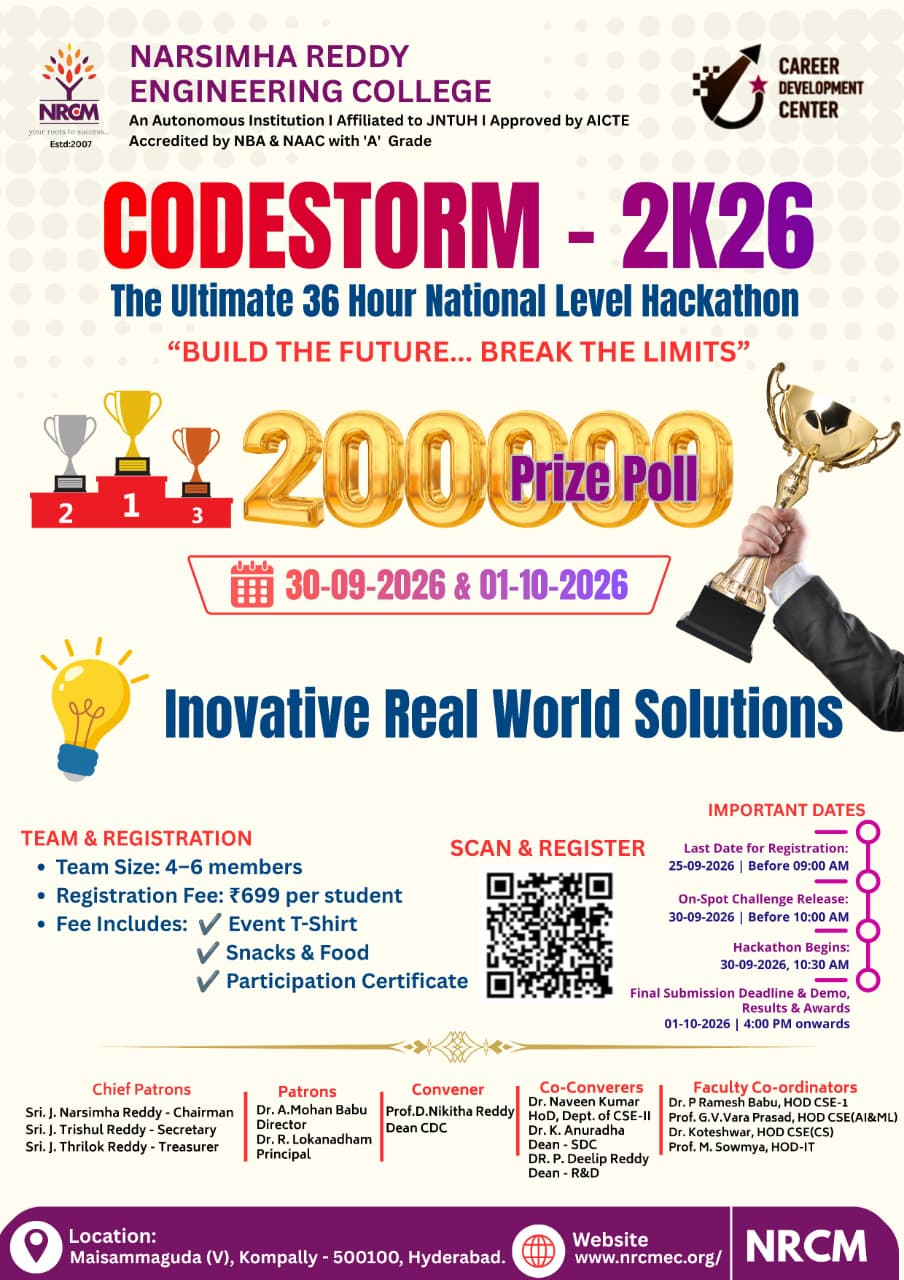
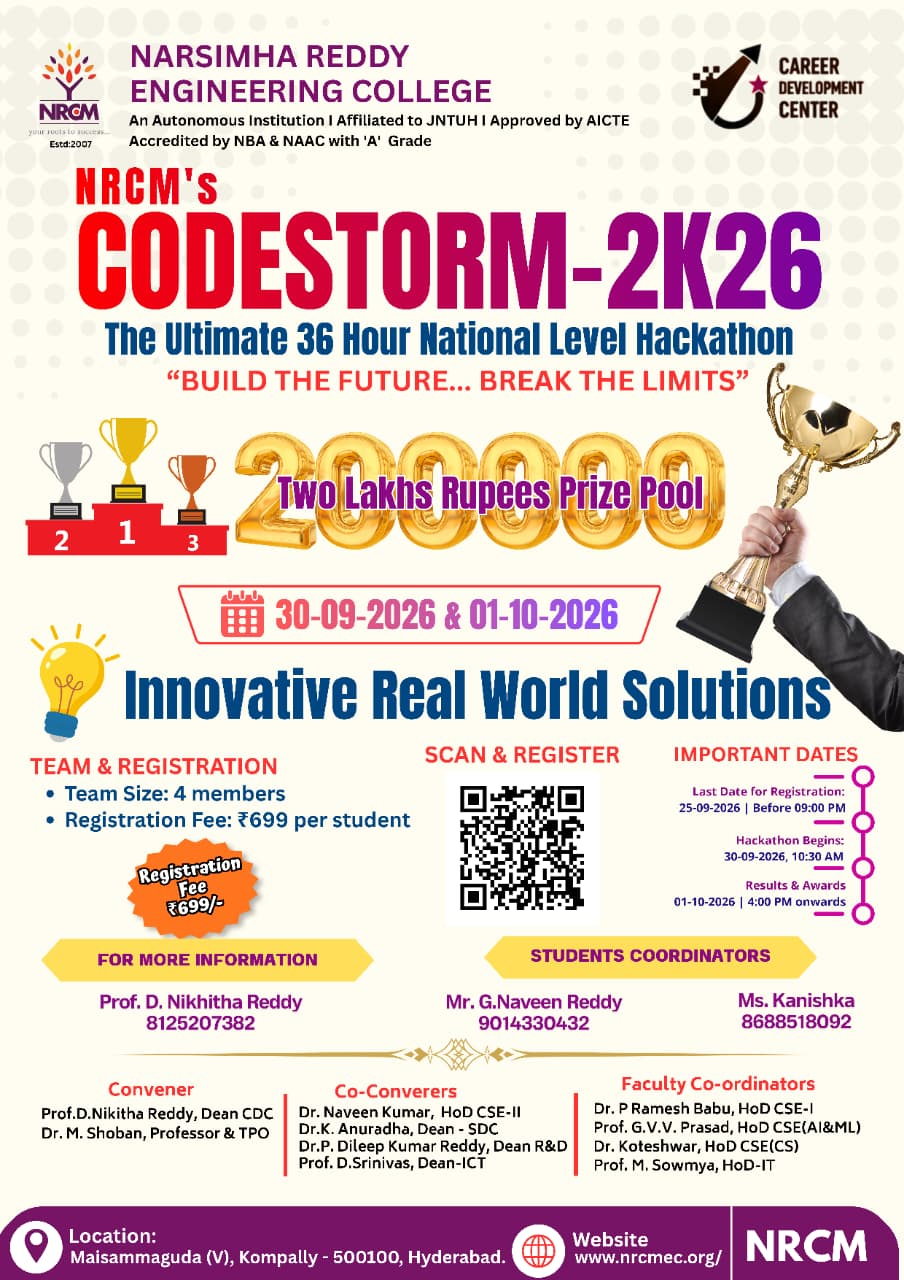
Update organizers, poster, team size, and internship highlights

diff --git a/website/templates/website/home.html b/website/templates/website/home.html
@@ -311,6 +311,7 @@
                 <img src="{% static 'website/images/logo.jpg' %}" alt="CodeStorm Logo"
                     class="w-10 h-10 rounded-lg object-cover transform group-hover:scale-110 transition duration-300">
                 <div class="flex flex-col py-0">
+                    <span class="text-xs text-indigo-500 font-rajdhani tracking-[0.2em]">NRCM'S</span>
                     <span
                         class="text-xl font-bold font-orbitron text-slate-900 tracking-wider group-hover:text-indigo-600 transition whitespace-nowrap">CODESTORM</span>
                     <span class="text-xs text-indigo-500 font-rajdhani tracking-[0.2em]">2K26</span>
@@ -405,6 +406,10 @@
                     </div>
                     <div class="flex flex-col items-center lg:items-end mb-6" data-aos="zoom-in"
                         data-aos-duration="1000">
+                        <div class="text-3xl sm:text-4xl md:text-5xl lg:text-[3.5rem] font-bold font-orbitron text-indigo-500 mb-2 tracking-widest uppercase"
+                            data-aos="fade-up">
+                            NRCM'S
+                        </div>
                         <h1
                             class="text-4xl sm:text-5xl md:text-7xl lg:text-[5rem] xl:text-[5.5rem] font-black font-orbitron leading-none tracking-tighter w-full text-center lg:text-right">
                             <span class="text-[#0a1128]">CODE</span><span
@@ -428,15 +433,16 @@
                     <div class="flex flex-wrap justify-center lg:justify-end gap-6 mb-10" data-aos="fade-up"
                         data-aos-delay="400">
                         <div
-                            class="w-48 p-5 rounded-2xl border-2 border-indigo-500 flex flex-col items-center justify-center bg-transparent">
-                            <p class="text-slate-500 text-[10px] sm:text-xs uppercase tracking-widest mb-2">Prize Pool
+                            class="w-auto px-8 sm:px-12 py-6 rounded-2xl border border-blue-400 flex flex-col items-center justify-center bg-gradient-to-br from-blue-500 to-indigo-600 shadow-[0_0_30px_rgba(59,130,246,0.6)] transform hover:scale-105 transition-all duration-300 inline-flex">
+                            <p class="text-white text-xs sm:text-sm uppercase tracking-widest mb-2 font-bold drop-shadow-md whitespace-nowrap">Prize Pool
                             </p>
-                            <p class="text-2xl sm:text-3xl font-bold font-orbitron text-indigo-600">₹2,00,000</p>
+                            <p class="text-4xl sm:text-5xl font-black font-orbitron text-white drop-shadow-lg whitespace-nowrap">₹2,00,000</p>
                         </div>
                         <div
-                            class="w-48 p-5 rounded-2xl border-2 border-rose-500 flex flex-col items-center justify-center bg-transparent">
-                            <p class="text-slate-500 text-[10px] sm:text-xs uppercase tracking-widest mb-2">Duration</p>
-                            <p class="text-2xl sm:text-3xl font-bold font-orbitron text-rose-500">36 HOURS</p>
+                            class="w-auto px-8 sm:px-12 py-6 rounded-2xl border border-emerald-400 flex flex-col items-center justify-center bg-gradient-to-br from-emerald-500 to-teal-600 shadow-[0_0_30px_rgba(16,185,129,0.6)] transform hover:scale-105 transition-all duration-300 inline-flex">
+                            <p class="text-white text-xs sm:text-sm uppercase tracking-widest mb-2 font-bold drop-shadow-md whitespace-nowrap">Exclusive
+                            </p>
+                            <p class="text-3xl sm:text-4xl font-black font-orbitron text-white drop-shadow-lg whitespace-nowrap mt-1">Internships</p>
                         </div>
                     </div>
 
@@ -980,10 +986,6 @@
                                 </div>
                                 <img src="{% static 'website/images/poster.jpeg' %}" alt="CodeStorm 2026"
                                     class="relative rounded-2xl shadow-2xl border border-slate-100 w-full object-cover max-w-full h-auto">
-                                <div
-                                    class="absolute -top-2 -right-2 md:-top-4 md:-right-4 bg-indigo-600 text-white font-bold px-3 py-1 md:px-4 md:py-2 rounded-full text-xs md:text-sm font-orbitron">
-                                    36 HOURS
-                                </div>
                             </div>
                         </div>
 
@@ -1001,8 +1003,8 @@
                                         <h4 class="text-base md:text-lg font-bold text-slate-900 mb-1">Important Dates
                                         </h4>
                                         <p class="text-sm md:text-base text-slate-600 leading-relaxed"><span
-                                                class="text-rose-500 font-bold">Reg Close: Sep 25, 2026</span> | Event:
-                                            Sep 30 - Oct 1</p>
+                                                class="text-rose-500 font-bold">Reg Close: Sep 25, 2026 (9:00 PM)</span><br/>Event:
+                                            Sep 30 (10:30 AM) - Oct 1</p>
                                     </div>
                                 </div>
 
@@ -1015,7 +1017,7 @@
                                         <h4 class="text-base font-bold text-slate-900 mb-1 font-orbitron">Registration
                                             Detail</h4>
                                         <p class="text-sm md:text-base text-slate-600 leading-relaxed">Fee:
-                                            ₹699/student. Team: 4-6 members.</p>
+                                            ₹699/student. Team: 4 members.</p>
                                     </div>
                                 </div>
 
@@ -1037,10 +1039,20 @@
                                         <i class="fas fa-lightbulb text-emerald-600 text-base md:text-xl"></i>
                                     </div>
                                     <div>
-                                        <h4 class="text-base md:text-lg font-bold text-slate-900 mb-1">Format</h4>
+                                        <h4 class="text-base md:text-lg font-bold text-slate-900 mb-1">Theme</h4>
                                         <p class="text-sm md:text-base text-slate-600 leading-relaxed"><strong
-                                                class="text-slate-900">No Idea Submission.</strong> On-Spot Open
-                                            Challenges.</p>
+                                                class="text-slate-900">Innovative Real World Solutions.</strong></p>
+                                    </div>
+                                </div>
+
+                                <div class="flex items-start gap-3 md:gap-4">
+                                    <div
+                                        class="w-10 h-10 md:w-12 md:h-12 bg-teal-100 rounded-xl flex items-center justify-center flex-shrink-0 border border-teal-200">
+                                        <i class="fas fa-briefcase text-teal-600 text-base md:text-xl"></i>
+                                    </div>
+                                    <div>
+                                        <h4 class="text-base md:text-lg font-bold text-slate-900 mb-1">Internships</h4>
+                                        <p class="text-sm md:text-base text-slate-600 leading-relaxed">Top performers get <strong class="text-slate-900">Paid & PPO</strong> internship offers.</p>
                                     </div>
                                 </div>
                             </div>
@@ -1067,71 +1079,107 @@
         <div class="container mx-auto px-6">
             <h2 class="text-4xl font-bold text-center font-orbitron text-slate-900 mb-16">The <span
                     class="text-indigo-600">Organizers</span></h2>
-            <div class="grid grid-cols-1 md:grid-cols-2 gap-12 max-w-6xl mx-auto">
-                <div data-aos="fade-right">
-                    <h3 class="text-2xl font-orbitron text-slate-900 mb-8 border-l-4 border-indigo-600 pl-4">Conveners
+            <div class="grid grid-cols-1 md:grid-cols-3 gap-8 max-w-7xl mx-auto">
+                
+                <!-- Conveners Column -->
+                <div data-aos="fade-up" data-aos-delay="100">
+                    <h3 class="text-2xl font-orbitron text-slate-900 mb-8 border-l-4 border-indigo-600 pl-4">Convener
                     </h3>
                     <div class="grid gap-4">
                         <div class="glass-card p-4 rounded-lg flex items-center gap-4">
-                            <div class="w-12 h-12 bg-slate-100 rounded-full flex items-center justify-center"><i
+                            <div class="w-12 h-12 bg-slate-100 rounded-full flex items-center justify-center flex-shrink-0"><i
                                     class="fas fa-user-tie text-indigo-600"></i></div>
                             <div>
-                                <h4 class="font-bold text-slate-900">D. NIKHITHA</h4>
-                                <p class="text-sm text-slate-600">Convener (Dean - CDC)</p>
+                                <h4 class="font-bold text-slate-900">Prof. D. Nikitha Reddy</h4>
+                                <p class="text-sm text-slate-600">Dean CDC</p>
                             </div>
                         </div>
                         <div class="glass-card p-4 rounded-lg flex items-center gap-4">
-                            <div class="w-12 h-12 bg-slate-100 rounded-full flex items-center justify-center"><i
+                            <div class="w-12 h-12 bg-slate-100 rounded-full flex items-center justify-center flex-shrink-0"><i
                                     class="fas fa-user-tie text-indigo-600"></i></div>
                             <div>
-                                <h4 class="font-bold text-slate-900">Dr. K. Anuradha</h4>
-                                <p class="text-sm text-slate-600">Co-Convener (Dean - SDC)</p>
-                            </div>
-                        </div>
-                        <div class="glass-card p-4 rounded-lg flex items-center gap-4">
-                            <div class="w-12 h-12 bg-slate-100 rounded-full flex items-center justify-center"><i
-                                    class="fas fa-user-tie text-indigo-600"></i></div>
-                            <div>
-                                <h4 class="font-bold text-slate-900">Dr. Srinivasa Naveen Kumar G</h4>
-                                <p class="text-sm text-slate-600">Co-Convener (HoD, Dept. of CSE-II)</p>
+                                <h4 class="font-bold text-slate-900">Dr. M. Shoban</h4>
+                                <p class="text-sm text-slate-600">Professor & TPO</p>
                             </div>
                         </div>
                     </div>
                 </div>
-                <div data-aos="fade-left">
+
+                <!-- Co-Conveners Column -->
+                <div data-aos="fade-up" data-aos-delay="200">
+                    <h3 class="text-2xl font-orbitron text-slate-900 mb-8 border-l-4 border-amber-500 pl-4">Co-Conveners
+                    </h3>
+                    <div class="grid gap-4">
+                        <div class="glass-card p-4 rounded-lg flex items-center gap-4">
+                            <div class="w-12 h-12 bg-slate-100 rounded-full flex items-center justify-center flex-shrink-0"><i
+                                    class="fas fa-user-tie text-amber-500"></i></div>
+                            <div>
+                                <h4 class="font-bold text-slate-900">Dr. Naveen Kumar</h4>
+                                <p class="text-sm text-slate-600">HoD CSE-II</p>
+                            </div>
+                        </div>
+                        <div class="glass-card p-4 rounded-lg flex items-center gap-4">
+                            <div class="w-12 h-12 bg-slate-100 rounded-full flex items-center justify-center flex-shrink-0"><i
+                                    class="fas fa-user-tie text-amber-500"></i></div>
+                            <div>
+                                <h4 class="font-bold text-slate-900">Dr. K. Anuradha</h4>
+                                <p class="text-sm text-slate-600">Dean - SDC</p>
+                            </div>
+                        </div>
+                        <div class="glass-card p-4 rounded-lg flex items-center gap-4">
+                            <div class="w-12 h-12 bg-slate-100 rounded-full flex items-center justify-center flex-shrink-0"><i
+                                    class="fas fa-user-tie text-amber-500"></i></div>
+                            <div>
+                                <h4 class="font-bold text-slate-900">Dr. P. Dileep Kumar Reddy</h4>
+                                <p class="text-sm text-slate-600">Dean R&D</p>
+                            </div>
+                        </div>
+                        <div class="glass-card p-4 rounded-lg flex items-center gap-4">
+                            <div class="w-12 h-12 bg-slate-100 rounded-full flex items-center justify-center flex-shrink-0"><i
+                                    class="fas fa-user-tie text-amber-500"></i></div>
+                            <div>
+                                <h4 class="font-bold text-slate-900">Prof. D. Srinivas</h4>
+                                <p class="text-sm text-slate-600">Dean-ICT</p>
+                            </div>
+                        </div>
+                    </div>
+                </div>
+
+                <!-- Faculty Co-ordinators Column -->
+                <div data-aos="fade-up" data-aos-delay="300">
                     <h3 class="text-2xl font-orbitron text-slate-900 mb-8 border-l-4 border-rose-500 pl-4">Faculty
                         Co-ordinators</h3>
                     <div class="grid gap-4">
                         <div class="glass-card p-4 rounded-lg flex items-center gap-4">
-                            <div class="w-12 h-12 bg-slate-100 rounded-full flex items-center justify-center"><i
+                            <div class="w-12 h-12 bg-slate-100 rounded-full flex items-center justify-center flex-shrink-0"><i
                                     class="fas fa-user-graduate text-rose-500"></i></div>
                             <div>
                                 <h4 class="font-bold text-slate-900">Dr. P Ramesh Babu</h4>
-                                <p class="text-sm text-slate-600">HOD - CSE</p>
+                                <p class="text-sm text-slate-600">HoD CSE-I</p>
                             </div>
                         </div>
                         <div class="glass-card p-4 rounded-lg flex items-center gap-4">
-                            <div class="w-12 h-12 bg-slate-100 rounded-full flex items-center justify-center"><i
+                            <div class="w-12 h-12 bg-slate-100 rounded-full flex items-center justify-center flex-shrink-0"><i
                                     class="fas fa-user-graduate text-rose-500"></i></div>
                             <div>
-                                <h4 class="font-bold text-slate-900">Prof. G V Vara Prasad</h4>
-                                <p class="text-sm text-slate-600">HOD - CSE(AI&ML)</p>
+                                <h4 class="font-bold text-slate-900">Prof. G.V.V. Prasad</h4>
+                                <p class="text-sm text-slate-600">HoD CSE(AI&ML)</p>
                             </div>
                         </div>
                         <div class="glass-card p-4 rounded-lg flex items-center gap-4">
-                            <div class="w-12 h-12 bg-slate-100 rounded-full flex items-center justify-center"><i
+                            <div class="w-12 h-12 bg-slate-100 rounded-full flex items-center justify-center flex-shrink-0"><i
                                     class="fas fa-user-graduate text-rose-500"></i></div>
                             <div>
-                                <h4 class="font-bold text-slate-900">Dr. Vellanki Srilakshmi</h4>
-                                <p class="text-sm text-slate-600">HOD - CSE(CS)</p>
+                                <h4 class="font-bold text-slate-900">Dr. Koteshwar</h4>
+                                <p class="text-sm text-slate-600">HoD CSE(CS)</p>
                             </div>
                         </div>
                         <div class="glass-card p-4 rounded-lg flex items-center gap-4">
-                            <div class="w-12 h-12 bg-slate-100 rounded-full flex items-center justify-center"><i
+                            <div class="w-12 h-12 bg-slate-100 rounded-full flex items-center justify-center flex-shrink-0"><i
                                     class="fas fa-user-graduate text-rose-500"></i></div>
                             <div>
-                                <h4 class="font-bold text-slate-900">Prof. M Sowmya</h4>
-                                <p class="text-sm text-slate-600">HOD - IT</p>
+                                <h4 class="font-bold text-slate-900">Prof. M. Sowmya</h4>
+                                <p class="text-sm text-slate-600">HoD-IT</p>
                             </div>
                         </div>
                     </div>

diff --git a/website/templates/website/register.html b/website/templates/website/register.html
@@ -223,6 +223,7 @@
                 <img src="{% static 'images/logo.jpg' %}" alt="CodeStorm Logo" class="me-2"
                     style="width: 40px; height: 40px; border-radius: 8px;">
                 <div>
+                    <div class="text-primary" style="font-size: 0.7rem; font-family: 'Orbitron', sans-serif;">NRCM'S</div>
                     <div class="fw-bold text-dark" style="font-family: 'Orbitron', sans-serif; font-size: 1.1rem;">
                         CODESTORM</div>
                     <div class="text-primary" style="font-size: 0.7rem;">2K26 EDITION</div>
@@ -355,8 +356,7 @@
 
                         <div class="mb-4">
                             <h2 class="section-title">Team Members</h2>
-                            <p class="text-muted mb-3">Select exactly one member as team leader. Members 1-4 are
-                                required, 5-6 are optional.</p>
+                            <p class="text-muted mb-3">Select exactly one member as team leader. All 4 members are required.</p>
 
 
                             <div class="member-card">

diff --git a/website/views.py b/website/views.py
@@ -376,7 +376,7 @@ def register_team(request):
                             'team_size': registration_data['team_size'],
                             'theme': registration_data['theme'],
                             'transaction_id': registration_data['transaction_id'],
-                            'whatsapp_link': '#', # Placeholder for WhatsApp link
+                            'whatsapp_link': 'https://chat.whatsapp.com/BvK5lvkkm9y8Qg9NoM6gIy', # WhatsApp link
                         }
                         
                         # Store email data in session for the frontend to trigger

diff --git a/website/forms.py b/website/forms.py
@@ -5,12 +5,12 @@ class TeamRegistrationForm(forms.Form):
 
     team_size = forms.ChoiceField(
         choices=[
-            ('4', '4 Members'),
-            ('5', '5 Members'),
-            ('6', '6 Members')
+            ('4', '4 Members')
         ],
         widget=forms.Select(attrs={
-            'class': 'w-full px-4 py-3 form-control',
+            'class': 'w-full px-4 py-3 form-control bg-gray-100',
+            'readonly': 'readonly',
+            'style': 'pointer-events: none;'
         })
     )
 
